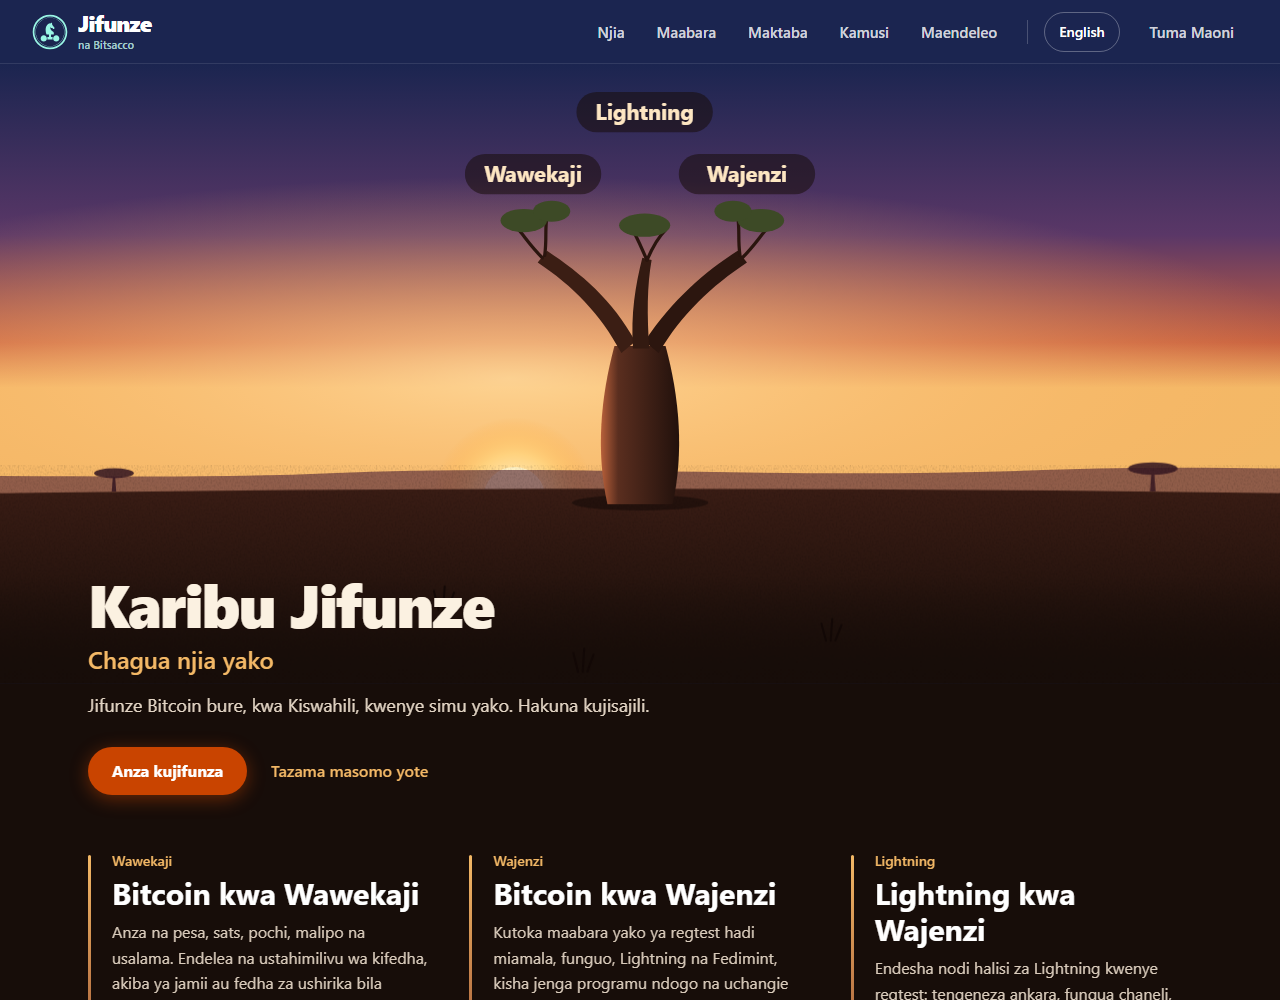
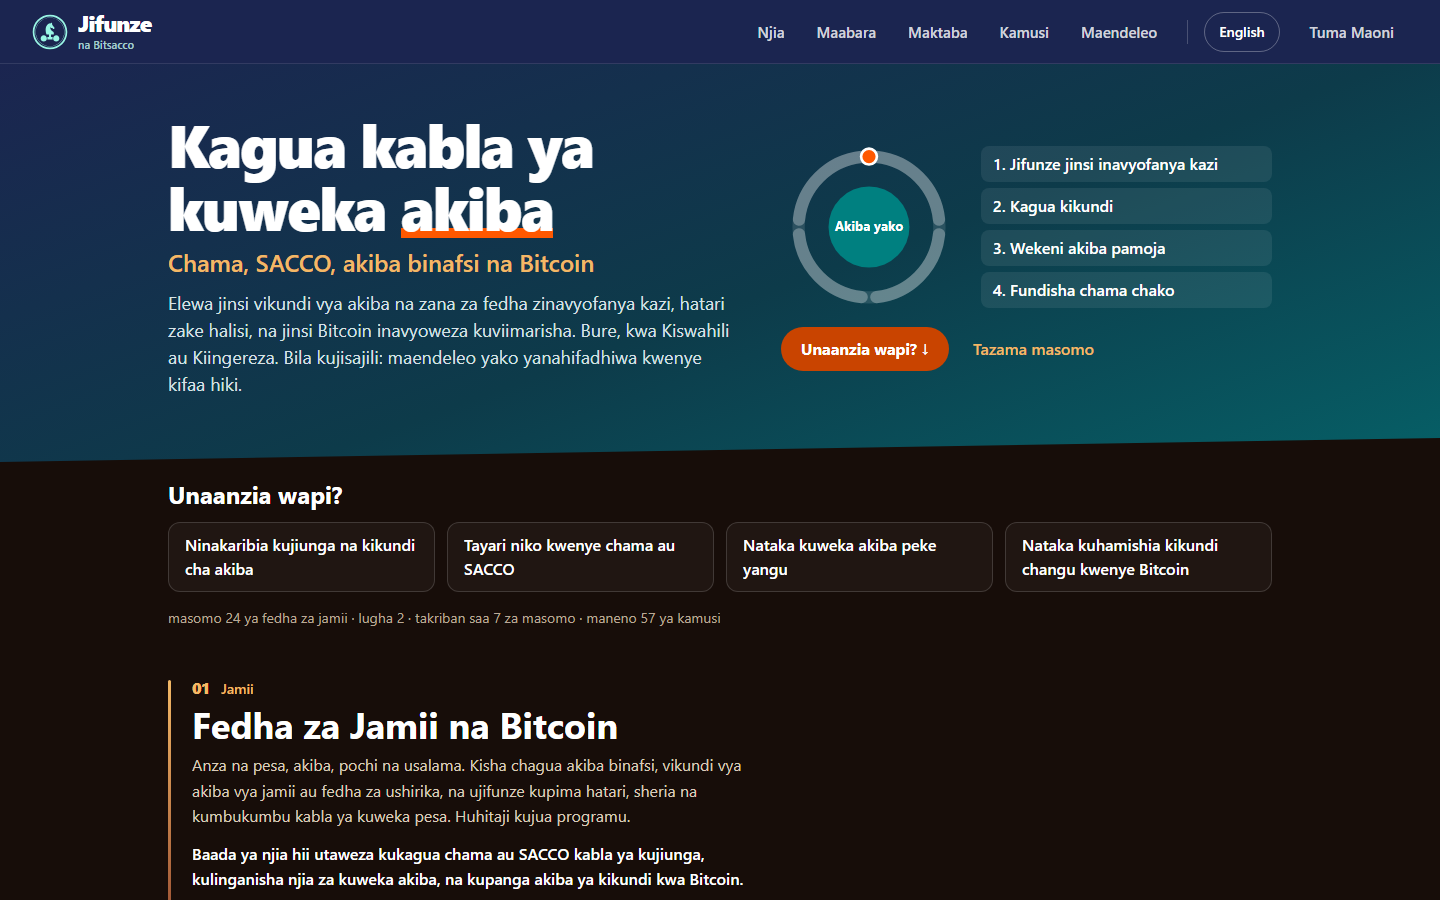
docs: refresh the README screenshots and record the staging release
The README still showed the retired baobab homepage and the old
three-path cards, which named the main path "Bitcoin kwa Wawekaji".
It now shows the current Kiswahili and English homepages, the
catalogue, the library with both books and the Lightning tree, all
taken on staging from the PR #34 build. The text leads with the
Community Finance path and says progress is saved on the device.

The content guide still called the main path "Savers". The staging
guide now records deployment 408c92b1 at 36be54c, its live checks and
the new rollback point, and says which rows were verified today.

diff --git a/README.md b/README.md
@@ -2,11 +2,16 @@
 
 Bitsacco Jifunze is a Kiswahili-first, bilingual community-finance and Bitcoin education platform: understand chamas, SACCOs and personal savings before you put money in, and how Bitcoin can strengthen them. Learn at **[bitsaccojifunze.xyz](https://bitsaccojifunze.xyz)** without an account.
 
-![Kiswahili homepage with the baobab and links to the three learning paths](docs/images/homepage-sw.png)
+![Kiswahili homepage: "Kagua kabla ya kuweka akiba", the savings circle, four starting points and the Fedha za Jamii na Bitcoin path](docs/images/homepage-sw.png)
+
+![English homepage: "Check before you save", the savings circle, four starting points and the Community Finance & Bitcoin path](docs/images/homepage-en.png)
 
 ## Learning paths
 
-- **Fedha za Jamii na Bitcoin / Community Finance & Bitcoin — 8 introductory lessons + 16 specialization lessons:** retain the accessible introduction, then choose individual savings/financial sovereignty, community savings or cooperative finance, progressing through foundations, intermediate practice and advanced cases.
+- **Fedha za Jamii na Bitcoin / Community Finance & Bitcoin — the main path, 8 introductory lessons + 16 specialization lessons (about 7 hours):** start with money, wallets and safety, then choose individual savings/financial sovereignty, community savings or cooperative finance, progressing through foundations, intermediate practice and advanced cases.
+
+Two optional technical paths serve builders:
+
 - **Bitcoin kwa Wajenzi / Bitcoin for Builders — 8 lessons:** regtest, transactions, keys, Lightning, Fedimint and contributing to open-source projects.
 - **Lightning kwa Wajenzi / Lightning for Builders — 17 lessons:** adapted from *Mastering the Lightning Network*, with interactive exercises.
 
@@ -14,22 +19,26 @@ All 49 lessons are available in Kiswahili and English, with learning trees, quiz
 
 The educational library includes the whitepaper in both languages and in-app readers and downloads for *Mastering Bitcoin*, third edition, in English and in Kiswahili (*Kujifunza Bitcoin*, translated by comwanga). See the [curriculum, primary sources and review guide](docs/content-guide.md).
 
-Learning progress stays in the browser and can be exported and imported. Previously opened lessons support offline reading; interactive simulations work offline after their modules have been loaded. The book is downloaded only on request and is not included in the offline lesson cache.
+There is no sign-up: learning progress is saved on the learner's device and can be exported and imported to move it to another one. Previously opened lessons support offline reading; interactive simulations work offline after their modules have been loaded. The books are downloaded only on request and are not included in the offline lesson cache.
 
 **Send Feedback / Tuma Maoni** opens the learner's email application. It is a plain email link in the header, footer and beside learning material. Lesson feedback includes the public lesson title and address.
 
 <details>
-<summary>Preview the learning paths and Lightning tree</summary>
+<summary>Preview the catalogue, library and Lightning tree</summary>
 
-Screenshots show the account-free production site, refreshed on 13 November 2026.
+Screenshots of the build from [PR #34](https://github.com/comwanga/bitsacco-jifunze/pull/34), taken on staging on 26 November 2026.
 
-**Three learning paths in Kiswahili**
+**Lesson catalogue**, opening on the Community Finance path with links to the other paths
 
-![Savers, Bitcoin Builders and Lightning Builders cards showing 24, 8 and 17 lessons](docs/images/learning-paths-sw.png)
+![Kiswahili catalogue filtered to Fedha za Jamii na Bitcoin, showing 24 of 49 lessons and links to the two builder paths](docs/images/catalogue-sw.png)
+
+**Library** with both editions of *Mastering Bitcoin*, each with a reader and a download
+
+![Kiswahili library with Mastering Bitcoin in English and Kujifunza Bitcoin in Kiswahili, translated by comwanga](docs/images/library-sw.png)
 
 **Lightning learning tree**
 
-![Lightning path with lesson cards, prerequisites and reading, quiz and lab labels](docs/images/lightning-tree-sw.png)
+![Lightning path tree with lesson cards, prerequisites and reading, quiz and lab labels](docs/images/lightning-tree-sw.png)
 
 </details>
 

diff --git a/docs/deployment/railway-staging.md b/docs/deployment/railway-staging.md
@@ -1,6 +1,6 @@
 # Staging operations
 
-Verified 13 November 2026 (Africa/Nairobi). Staging is separate from [production](production.md); it is not an account-release environment for learners.
+Service deployments and web domains verified 26 November 2026 (Africa/Nairobi); networking, capacity, allowlist and variable rows were last verified 13 November 2026. Staging is separate from [production](production.md); it is not an account-release environment for learners.
 
 ## Current state
 
@@ -8,7 +8,7 @@ Verified 13 November 2026 (Africa/Nairobi). Staging is separate from [production
 | --- | --- |
 | Project / environment | `bitsacco-jifunze` / `staging` (`1b138f86-2127-4c52-9142-868ecdf75460`) |
 | Public origin | <https://staging.bitsaccojifunze.xyz>; noindex/nofollow, robots disallow all |
-| Web | `27e66b05-93b9-4180-bb8e-263052e4e69c` / `80c7f5ad4599574eb37a5165f9866d90260ed812`, SUCCESS |
+| Web | `408c92b1-7bf9-419b-bf7e-f5d63b8f195d` / `36be54cce6dd2efb40e6652accb59152c45c4dc4` (merge of [PR #34](https://github.com/comwanga/bitsacco-jifunze/pull/34)), SUCCESS |
 | API | `54f04926-aa26-4f44-8e31-099ad715b4e8` / `b702a14`, SUCCESS; unused by the site |
 | PostgreSQL | `f8ac6eaf-5174-4157-9064-8304c295fe4e`, SUCCESS; unchanged |
 | Networking | Only web has HTTP domains; API/database private; zero public TCP proxies |
@@ -16,7 +16,7 @@ Verified 13 November 2026 (Africa/Nairobi). Staging is separate from [production
 | Account access | Tester allowlist enforced and empty; no learner can authenticate |
 | API forwarding | Web `STAGING_AUTH_ENABLED=1` remains set; the account-free site makes no account API request |
 
-The plain English/Kiswahili feedback link passed 12 live desktop/mobile Chromium checks on this exact web commit, including keyboard activation, no-JavaScript operation and the absence of copy controls/helper text. The earlier reviewed account-free build also passed progress/import-order, offline, navigation and retired-route acceptance. These results are tied to their commits, not a promise about a future build.
+This web commit passed 137 live desktop/mobile Chromium checks on the staging origin: home, world map, not-found, smoke, public release, accessibility, library, book reader, catalogue and lesson specs. The two failures were the English book test's production-canonical assertion, which staging's own canonical origin fails by design; the Kiswahili book test covers the same reader flow and passed. Direct checks confirmed HTTPS with an HTTP redirect, `noindex, nofollow` on every response, robots disallowing all, ordinary 404s for retired account paths in both languages, and both PDFs served as `application/pdf` with byte ranges and the exact bytes in their manifests. These results are tied to this commit, not a promise about a future build.
 
 ## Controlled web deployment
 
@@ -25,7 +25,7 @@ The plain English/Kiswahili feedback link passed 12 live desktop/mobile Chromium
 3. Verify HTTPS, noindex/robots, feedback, local progress and the relevant regression cases. Retired account paths must return the ordinary 404 in both languages.
 4. Recheck the private services, allowlist, configuration and production baseline. Do not change the API/database, billing, DNS or production as a side effect of web deployment.
 
-The previous web `ec9d7693-9d02-4267-85bf-c57ed0f99f3d` / `9923f6e` was rollback-eligible at the latest staging acceptance. Recheck eligibility before a later operation.
+The previous web `957decab-a0ae-4970-ba38-96296069ae53` / `5a1c9fe` was rollback-eligible before this deployment. Recheck eligibility before a later operation.
 
 ## Unused API and ingress boundary
 

diff --git a/docs/content-guide.md b/docs/content-guide.md
@@ -1,10 +1,10 @@
 # Curriculum and content review
 
-Jifunze has 49 lessons in English and Kiswahili: 24 Savers lessons, eight Bitcoin Builder lessons and 17 Lightning Builder lessons. The roadmap JSON files under [`content/roadmaps/`](../content/roadmaps/) define the current order and prerequisites. [CONTRIBUTING.md](../CONTRIBUTING.md) describes schemas, bilingual content, quizzes and the review process.
+Jifunze has 49 lessons in English and Kiswahili: 24 Community Finance & Bitcoin lessons (roadmap id `savers`), the main path, plus eight Bitcoin Builder lessons and 17 Lightning Builder lessons as optional technical paths. The roadmap JSON files under [`content/roadmaps/`](../content/roadmaps/) define the current order and prerequisites. [CONTRIBUTING.md](../CONTRIBUTING.md) describes schemas, bilingual content, quizzes and the review process.
 
 ## Learning model
 
-The eight original Savers lessons remain the introductory sequence, with stable URLs and progress keys. Three optional sections extend that roadmap. Learners may choose one specialization; section prerequisites are guidance, never forced account-based gates. Each optional sequence ends at its own capstone and links back to the path choices. The catalogue supports level filtering and the existing tree shows prerequisites. Builder courses/labs retain their separate technical audience.
+The eight original introductory lessons of the Community Finance & Bitcoin path remain its introductory sequence, with stable URLs and progress keys. Three optional sections extend that roadmap. Learners may choose one specialization; section prerequisites are guidance, never forced account-based gates. Each optional sequence ends at its own capstone and links back to the path choices. The catalogue opens on this path, supports path and level filtering, and the existing tree shows prerequisites. Builder courses/labs retain their separate technical audience.
 
 Every new lesson has English and Kiswahili objectives, explanation, a fictional case, a worked activity, required discussion, further reading and a four-question scenario quiz with explanations. No real money, keys or wallet connection is used. A single shared financial-scenario simulation supports reserve, price-shock and liquidity comparisons; paper exercises remain available without JavaScript.
 
